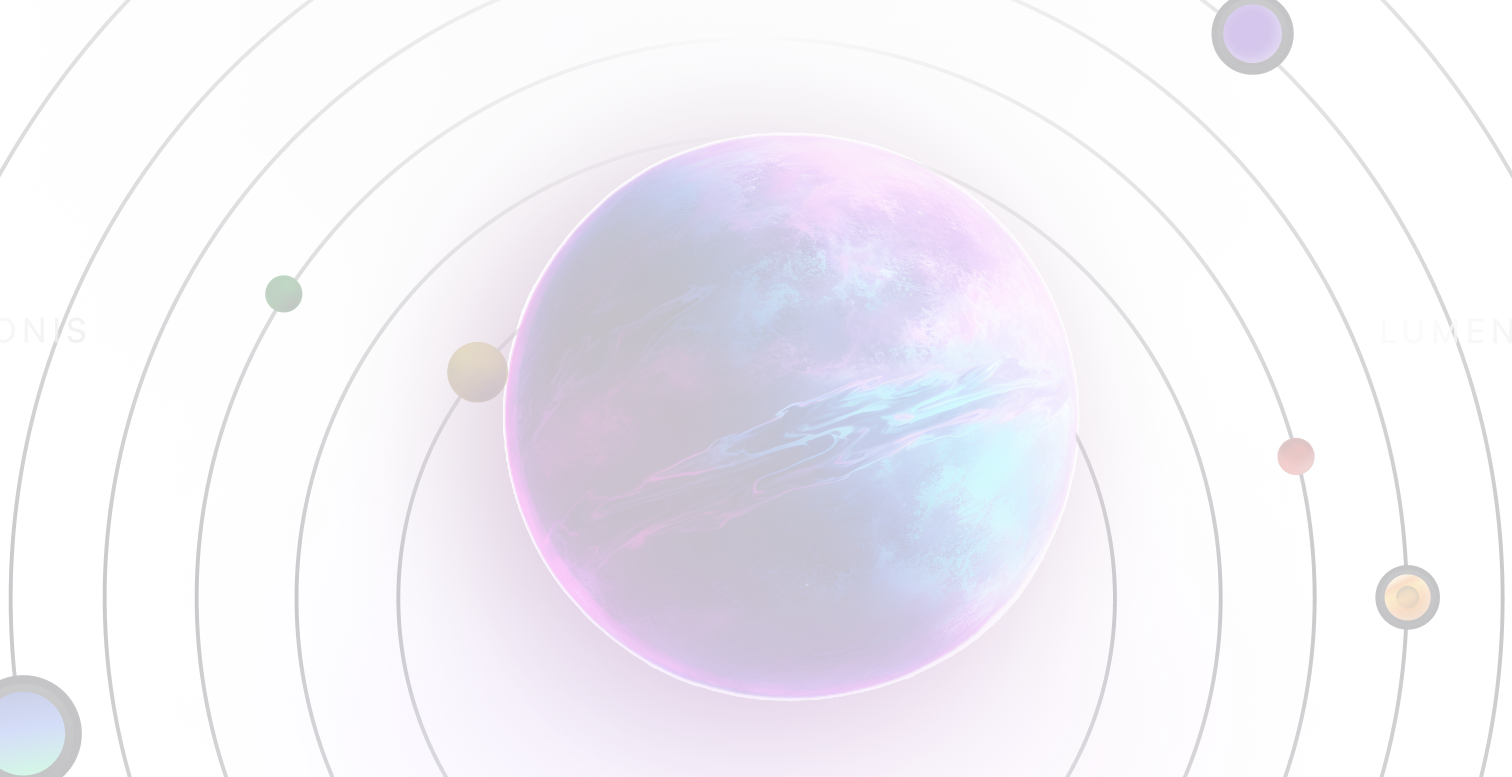
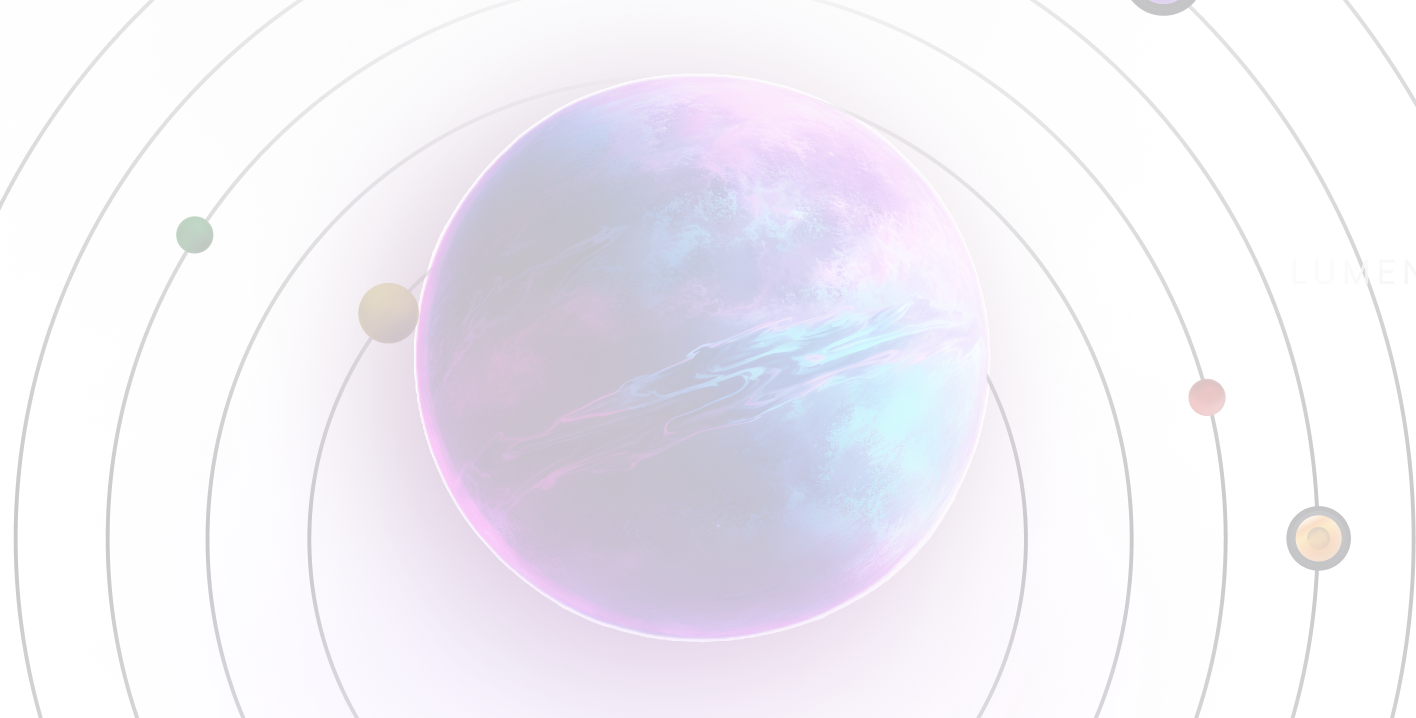
add responsive to hero

diff --git a/index.html b/index.html
@@ -32,23 +32,23 @@
 
     <!-- section hero -->
     <section
-        class="hero w-full overflow-hidden  flex flex-col gap-10 py-40 justify-center items-center bg-[url('/public/hero-bg.png')] bg-cover bg-no-repeat bg-center">
-        <div class="header relative z-50 flex flex-col gap-7 items-center">
+        class="hero w-full md:h-screen lg:h-auto overflow-hidden flex flex-col gap-10 pt-20 pb-32 md:py-40 px-8 md:px-16 lg:px-0 justify-center items-center bg-[url('/public/hero-bg.png')] bg-cover bg-no-repeat bg-center md:bg-center">
+        <div class="header relative z-50 flex flex-col gap-7 items-center w-full md:w-max">
             <div class="tag">
-                <p class="flex"><img src="/public/flare.svg" class="mr-2" />Intégration de notre IA pour vous assister
-                    <span class="ml-2 lato-medium text-white flex gap-1 items-center">Discuter <img
-                            src="/public/arrow-right.svg" alt=""></span>
+                <p class="flex"><img src="/public/flare.svg" class="mr-2 hidden md:flex" />Intégration de notre IA pour
+                    vous assister
                 </p>
             </div>
             <h1 class="text-white lato-black text-center leading-tight">L'espace conquis ! <span>Voyagez</span> vers les
                 étoiles !
             </h1>
-            <p class="text-center text-lg">Nous mettons à votre disposition les planètes disponibles et capsules avec la
+            <p class="text-center md:text-lg">Nous mettons à votre disposition les planètes disponibles et capsules avec
+                la
                 distance entre
                 chaque
                 destinations</p>
         </div>
-        <div class="footer-buttons  w-max flex justify-center gap-8 relative z-50">
+        <div class="footer-buttons  md:w-max flex justify-center gap-4 md:gap-8 relative z-50">
             <button class="text-white px-6 py-3 rounded-full">Nous rejoindre</button>
             <button class="text-white px-6 py-3 rounded-full">Nous contacter</button>
         </div>
@@ -56,7 +56,7 @@
 
     <!-- section about -->
     <section
-        class="about flex items-center gap-24 pt-24 px-20 bg-[url('/public/star.png')] bg-cover bg-no-repeat bg-center">
+        class="about hidden flex items-center gap-24 pt-24 px-20 bg-[url('/public/star.png')] bg-cover bg-no-repeat bg-center">
         <div class="earth w-2/5">
             <img src="/public/earth.png" class="w-full h-full object-contain" />
         </div>
@@ -86,7 +86,7 @@
 
     <!-- section fonctionnalités -->
     <section
-        class="features w-full h-max overflow-hidden flex flex-col gap-10 py-24 px-28 justify-center items-start bg-[url('/public/features-bg.png')] bg-cover bg-no-repeat bg-center">
+        class="features hidden w-full h-max overflow-hidden flex flex-col gap-10 py-24 px-28 justify-center items-start bg-[url('/public/features-bg.png')] bg-cover bg-no-repeat bg-center">
         <div class="header w-full flex justify-between items-end">
             <div class="title flex flex-col gap-7">
                 <div class="tag">
@@ -139,7 +139,7 @@
     </section>
 
     <!-- footer -->
-    <footer class="px-16 pb-7 flex flex-col gap-8">
+    <footer class="px-16 hidden pb-7 flex flex-col gap-8">
         <div class="footer_first flex justify-between">
             <div class="logo">
                 <img src="/public/logo.svg" alt="">

diff --git a/src/output.css b/src/output.css
@@ -604,20 +604,8 @@ video {
   grid-column: span 3 / span 3;
 }
 
-.ml-2 {
-  margin-left: 0.5rem;
-}
-
 .mr-2 {
   margin-right: 0.5rem;
-}
-
-.mt-10 {
-  margin-top: 2.5rem;
-}
-
-.mt-5 {
-  margin-top: 1.25rem;
 }
 
 .flex {
@@ -657,11 +645,6 @@ video {
   width: 100%;
 }
 
-.w-max {
-  width: -moz-max-content;
-  width: max-content;
-}
-
 .cursor-pointer {
   cursor: pointer;
 }
@@ -694,10 +677,6 @@ video {
   justify-content: space-between;
 }
 
-.gap-1 {
-  gap: 0.25rem;
-}
-
 .gap-10 {
   gap: 2.5rem;
 }
@@ -714,6 +693,10 @@ video {
   gap: 0.75rem;
 }
 
+.gap-4 {
+  gap: 1rem;
+}
+
 .gap-5 {
   gap: 1.25rem;
 }
@@ -724,18 +707,6 @@ video {
 
 .gap-8 {
   gap: 2rem;
-}
-
-.gap-4 {
-  gap: 1rem;
-}
-
-.gap-6 {
-  gap: 1.5rem;
-}
-
-.gap-9 {
-  gap: 2.25rem;
 }
 
 .gap-x-10 {
@@ -838,6 +809,11 @@ video {
   padding-right: 1.5rem;
 }
 
+.px-8 {
+  padding-left: 2rem;
+  padding-right: 2rem;
+}
+
 .py-24 {
   padding-top: 6rem;
   padding-bottom: 6rem;
@@ -848,31 +824,25 @@ video {
   padding-bottom: 0.75rem;
 }
 
-.py-40 {
-  padding-top: 10rem;
-  padding-bottom: 10rem;
-}
-
 .py-5 {
   padding-top: 1.25rem;
   padding-bottom: 1.25rem;
 }
 
-.px-1 {
-  padding-left: 0.25rem;
-  padding-right: 0.25rem;
-}
-
-.pt-24 {
-  padding-top: 6rem;
-}
-
-.pb-5 {
-  padding-bottom: 1.25rem;
+.pb-32 {
+  padding-bottom: 8rem;
 }
 
 .pb-7 {
   padding-bottom: 1.75rem;
+}
+
+.pt-20 {
+  padding-top: 5rem;
+}
+
+.pt-24 {
+  padding-top: 6rem;
 }
 
 .text-center {
@@ -988,6 +958,16 @@ body {
 .hero .header h1 {
   font-size: 4.5rem;
   width: 880px;
+  @media screen and (max-width : 767px) {
+    font-size: 2rem;
+
+    width: 100%;
+  }
+  @media screen and (min-width : 768px) and (max-width: 1023px) {
+    font-size: 3rem;
+
+    width: 600px;
+  }
 }
 
 .hero .header h1 span {
@@ -1000,6 +980,12 @@ body {
 .hero .header p {
   color: var(--gray02);
   width: 510px;
+  @media screen and (max-width : 768px) {
+    width: 100%;
+  }
+  @media screen and (min-width : 768px) and (max-width: 1023px) {
+    width: 500px;
+  }
 }
 
 .hero .footer-buttons :first-child {
@@ -1019,6 +1005,22 @@ body {
   padding: 0.5rem 1rem;
   width: -moz-max-content;
   width: max-content;
+  @media screen and (max-width : 768px) {
+    display: flex;
+
+    justify-content: center;
+
+    text-align: center;
+  }
+  @media screen and (max-width : 367px) {
+    width: 100% !important;
+
+    display: flex;
+
+    justify-content: center;
+
+    text-align: center;
+  }
 }
 
 .tag p {
@@ -1079,19 +1081,59 @@ footer p {
 }
 
 @media (min-width: 768px) {
+  .md\:flex {
+    display: flex;
+  }
+
+  .md\:h-screen {
+    height: 100vh;
+  }
+
+  .md\:w-max {
+    width: -moz-max-content;
+    width: max-content;
+  }
+
+  .md\:gap-8 {
+    gap: 2rem;
+  }
+
+  .md\:bg-center {
+    background-position: center;
+  }
+
   .md\:px-16 {
     padding-left: 4rem;
     padding-right: 4rem;
+  }
+
+  .md\:py-40 {
+    padding-top: 10rem;
+    padding-bottom: 10rem;
   }
 
   .md\:py-7 {
     padding-top: 1.75rem;
     padding-bottom: 1.75rem;
   }
+
+  .md\:text-lg {
+    font-size: 1.125rem;
+    line-height: 1.75rem;
+  }
 }
 
 @media (min-width: 1024px) {
   .lg\:flex {
     display: flex;
+  }
+
+  .lg\:h-auto {
+    height: auto;
+  }
+
+  .lg\:px-0 {
+    padding-left: 0px;
+    padding-right: 0px;
   }
 }

diff --git a/src/styles.css b/src/styles.css
@@ -74,6 +74,16 @@ body {
 .hero .header h1 {
     font-size: 4.5rem;
     width: 880px;
+
+    @media screen and (max-width : 767px) {
+        font-size: 2rem;
+        width: 100%;
+    }
+
+    @media screen and (min-width : 768px) and (max-width: 1023px) {
+        font-size: 3rem;
+        width: 600px;
+    }
 }
 
 .hero .header h1 span {
@@ -86,6 +96,14 @@ body {
 .hero .header p {
     color: var(--gray02);
     width: 510px;
+
+    @media screen and (max-width : 768px) {
+        width: 100%;
+    }
+
+    @media screen and (min-width : 768px) and (max-width: 1023px) {
+        width: 500px;
+    }
 }
 
 .hero .footer-buttons :first-child {
@@ -104,6 +122,19 @@ body {
     color: var(--gray01);
     padding: 0.5rem 1rem;
     width: max-content;
+
+    @media screen and (max-width : 768px) {
+        display: flex;
+        justify-content: center;
+        text-align: center;
+    }
+
+    @media screen and (max-width : 367px) {
+        width: 100% !important;
+        display: flex;
+        justify-content: center;
+        text-align: center;
+    }
 }
 
 .tag p {
